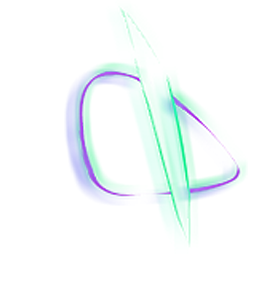
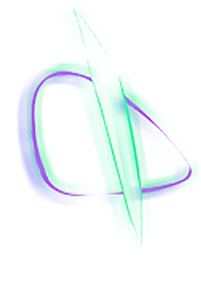
ok done

diff --git a/css/stylesheet.css b/css/stylesheet.css
@@ -14,10 +14,12 @@ body {
     background-color: #181127;
 }
 
+/* bear head */
+
 .bear-head ul {
     display: flex;
     width: 40%;
-    margin: 20% 30%;
+    margin: 13% 30%;
     position: fixed;
 
 }
@@ -29,18 +31,32 @@ body {
 }
 
 .bear-head-itens img {
-    width: 90%;
+    width: 50%;
+}
+#leye {
+    margin: 0 -100px;
+}
+#nose {
+    margin: 0 -150px;
+}
+#reye {
+    margin: 0 -100px;
 }
 
+#nose:hover + #reye + #leye {
+    opacity: 100;
+}
+
+/* plataform symbol */
 .plataform_container {
     position: absolute;
 }
 
 .plataform_container img {
     position: fixed;
-    bottom: 20px;
-    right: 70px;
-    width: 15%;
+    bottom: 160px;
+    right: 160px;
+    width: 13%;
 }
 
 #tablet,
@@ -49,25 +65,200 @@ body {
 }
 
 /* RESPONSIVIDADE */
+/* COMPUTADORES 4K */
+@media (max-width:1600px) {
+
+    .plataform_container img {
+        position: fixed;
+        bottom: 110px;
+        right: 60px;
+        width: 13%;
+    }
+
+    .bear-head-itens img {
+        width: 50%;
+    }
+    #leye {
+        margin: 0 -80px;
+    }
+    #nose {
+        margin: 0 -80px;
+    }
+    #reye {
+        margin: 0 -80px;
+    }
+}
 /* COMPUTADORES MENORES */
 @media (max-width: 1100px) {
     
-    .bear-head-itens img {
-        width: 90%;
+    .bear-head ul {
+        width: 50%;
+        margin: 25% 25%;
+    
     }
     
+    .bear-head-itens img {
+        width: 40%;
+    }
+    #leye {
+        margin: 0 -80px;
+    }
+    #nose {
+        margin: 0 -150px;
+    }
+    #reye {
+        margin: 0 -80px;
+    }
+     body {
+        background-size: 100% 110%;
+     }
     
+    .plataform_container img {
+    position: fixed;
+    bottom: 110px;
+    right: 65px;
+    width: 13%;
+}
+
 }
 
 /* TABLETS */
 
 @media (max-width: 900px) {
-    .bear-head-itens img {
-        width: 80%;
+
+    .bear-head ul {
+        width: 60%;
+        margin: 35% 19%;
+    
     }
 
-    .body {
+    .bear-head-itens img {
+        width: 30%;
+    }
+
+    #leye {
+        margin: 0 -100px;
+    }
+    #nose {
+        margin: 0 -200px;
+    }
+    #reye {
+        margin: 0 -100px;
+    }
+
+    body {
         background-image: url(../img/bg.png); 
         
+    }
+
+    .plataform_container img {
+        position: fixed;
+        bottom: 110px;
+        right: 45px;
+        width: 20%;
+    }
+
+    #pc {
+        display: none;
+    }
+
+    #tablet {
+        display: block;
+    }
+}
+
+/* CELULARES */
+
+@media (max-width: 576px) {
+    .bear-head ul {
+        width: 60%;
+        margin: 70% 19%;
+    
+    }
+
+    .bear-head-itens img {
+        width: 30%;
+    }
+    #leye {
+        margin: 0 -80px;
+    }
+    #nose {
+        margin: 0 -130px;
+    }
+    #reye {
+        margin: 0 -80px;
+    }
+
+    .plataform_container img {
+        position: fixed;
+        bottom: 110px;
+        right: 20px;
+        width: 25%;
+    }
+
+    #tablet {
+        display: none;
+    }
+
+    #phone {
+        display: block;
+    }
+}
+
+/* MINI CELULARES */
+@media (max-width: 375px) {
+    .bear-head ul {
+        width: 70%;
+        margin: 80% 14%;
+    
+    }
+
+    .bear-head-itens img {
+        width: 25%;
+    }
+    #leye {
+        margin: 0 -80px;
+    }
+    #nose {
+        margin: 0 -150px;
+    }
+    #reye {
+        margin: 0 -80px;
+    }
+
+    .plataform_container img {
+        position: fixed;
+        bottom: 120px;
+        right: 15px;
+        width: 25%;
+    }
+}
+/* MINI MINI CELULARES */
+
+@media (max-width: 350px) {
+    .bear-head ul {
+        width: 70%;
+        margin: 95% 14%;
+    
+    }
+
+    .bear-head-itens img {
+        width: 25%;
+    }
+    #leye {
+        margin: 0 -80px;
+    }
+    #nose {
+        margin: 0 -130px;
+    }
+    #reye {
+        margin: 0 -80px;
+    }
+
+    .plataform_container img {
+        position: fixed;
+        bottom: 120px;
+        right: 15px;
+        width: 25%;
     }
 }

diff --git a/index.html b/index.html
@@ -10,8 +10,8 @@
     <main>
         <section class="bear-head">
             <ul class="bear-head-itens">
-                <li id="nose"><img src="img/leye.png"/></li>
-                <li id="leye"><img src="img/nose.png"/></li>
+                <li id="leye"><img src="img/leye.png"/></li>
+                <li id="nose"><img src="img/nose.png"/></li>
                 <li id="reye"><img src="img/reye.png"/></li>
             </ul>
 
